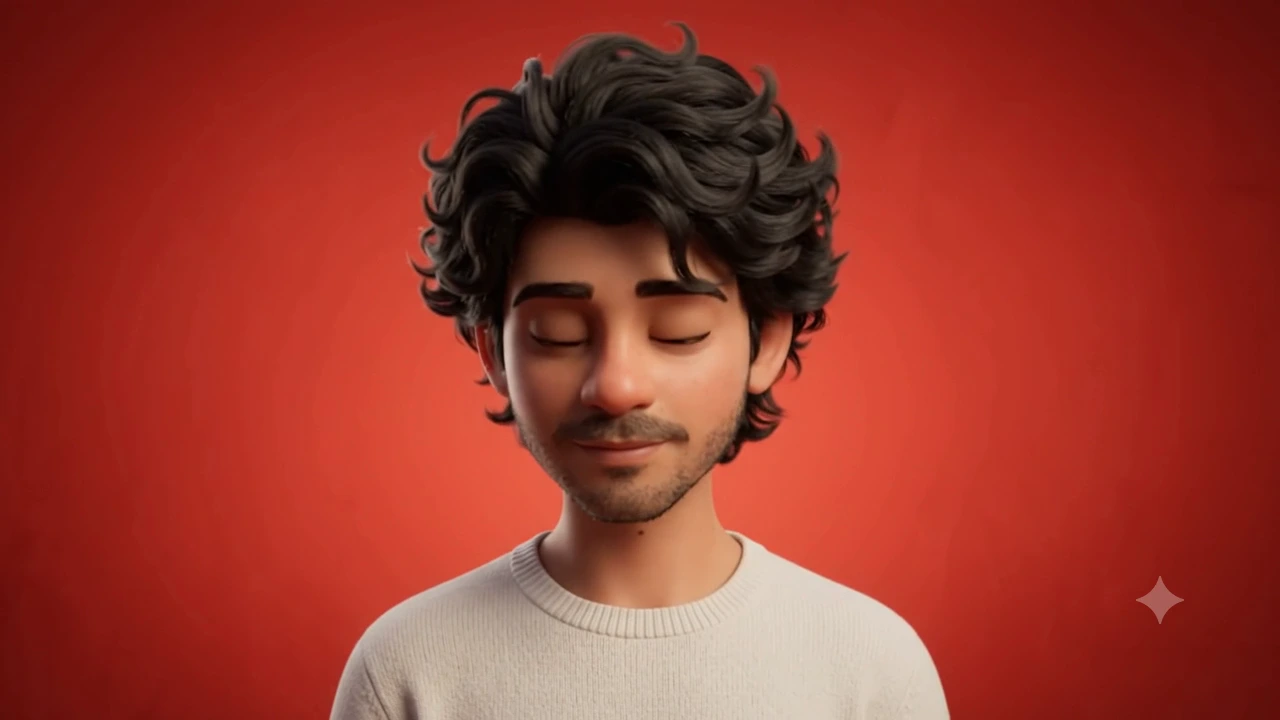
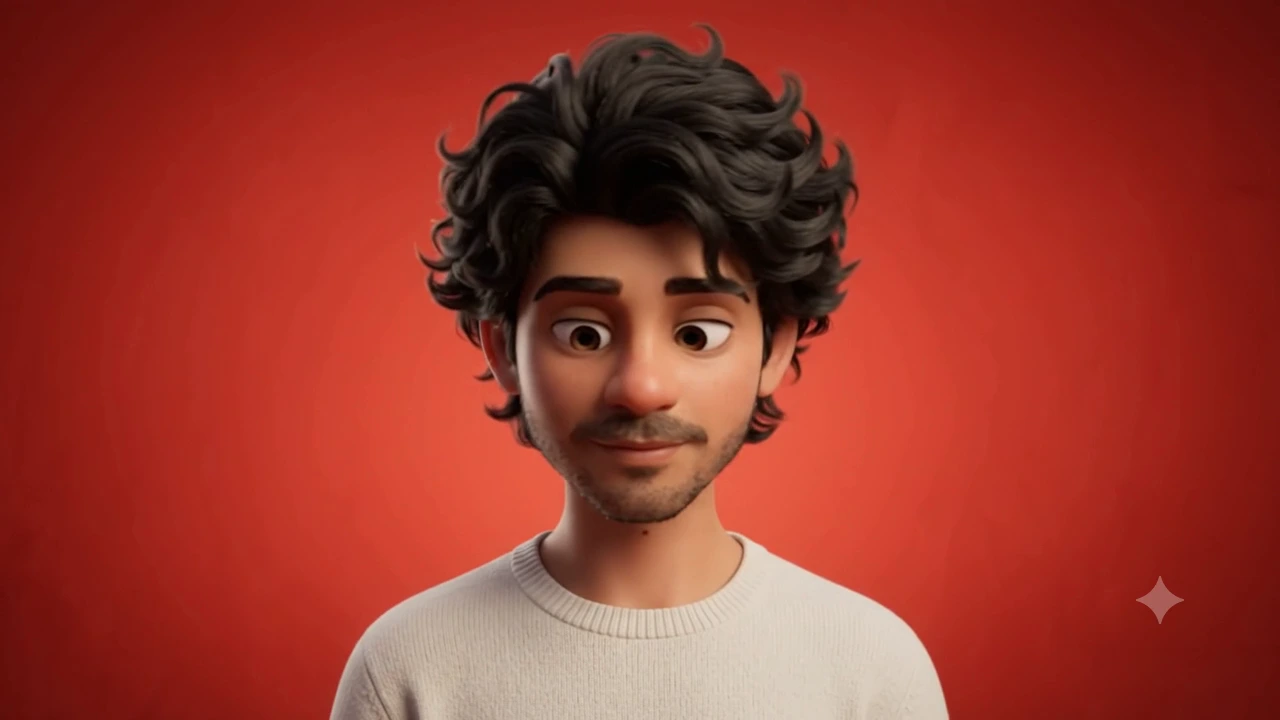
Exclude blink poses from stationary character frames

diff --git a/scripts/prepare_character.py b/scripts/prepare_character.py
@@ -21,6 +21,7 @@ parser.add_argument("--center", type=float)
 parser.add_argument("--face", nargs=2, type=float, default=[0.5, 0.4], help="Face center as fractions of source width/height")
 parser.add_argument("--output", type=Path, default=Path("public/frames"))
 parser.add_argument("--max-width", type=int, default=1440)
+parser.add_argument("--skip-interval", nargs=2, type=float, action="append", default=[], help="Exclude blink/unstable time ranges by choosing their nearest endpoint")
 args = parser.parse_args()
 cap = cv2.VideoCapture(str(args.video))
 if not cap.isOpened():
@@ -81,6 +82,9 @@ else:
     for index in range(64):
         segment, step = divmod(index, 8)
         second = args.anchors[segment] + (args.anchors[segment+1]-args.anchors[segment])*step/8
+        for start, end in args.skip_interval:
+            if start < second < end:
+                second = start if second-start <= end-second else end
         name = f"frame-{index:02d}.webp"
         write(name, read_at(second))
         names.append(name)
@@ -89,4 +93,5 @@ else:
     (args.output/"manifest.json").write_text(json.dumps(manifest, indent=2), encoding="utf-8")
     print(f"Prepared 64 directional frames + center in {args.output}; background {background}")
 cap.release()
+
 

diff --git a/README.md b/README.md
@@ -27,6 +27,6 @@ The glass navigation provides Work, About, and Contact links at all sizes. Résu
 
 Reproduce the included frames:
 
-python scripts/prepare_character.py source-assets/character.mp4 --anchors 1.25 2.55 3.55 4.65 5.75 6.95 8.05 8.95 11.25 --center 0 --face 0.49 0.43
+python scripts/prepare_character.py source-assets/character.mp4 --anchors 1.25 2.55 3.55 4.65 5.45 6.95 8.05 8.95 11.25 --center 0 --face 0.49 0.43 --skip-interval 5.7 6.2
 
 The last timestamp extends past the 10-second duration and wraps to the beginning. The source background is a red gradient; frames preserve it. Mobile uses a bottom fade into the sampled edge color.
